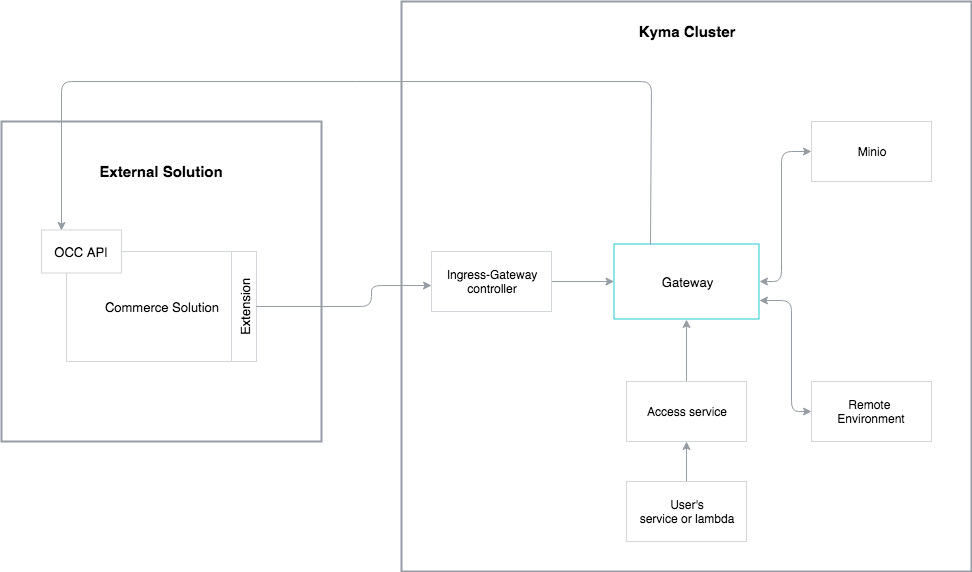
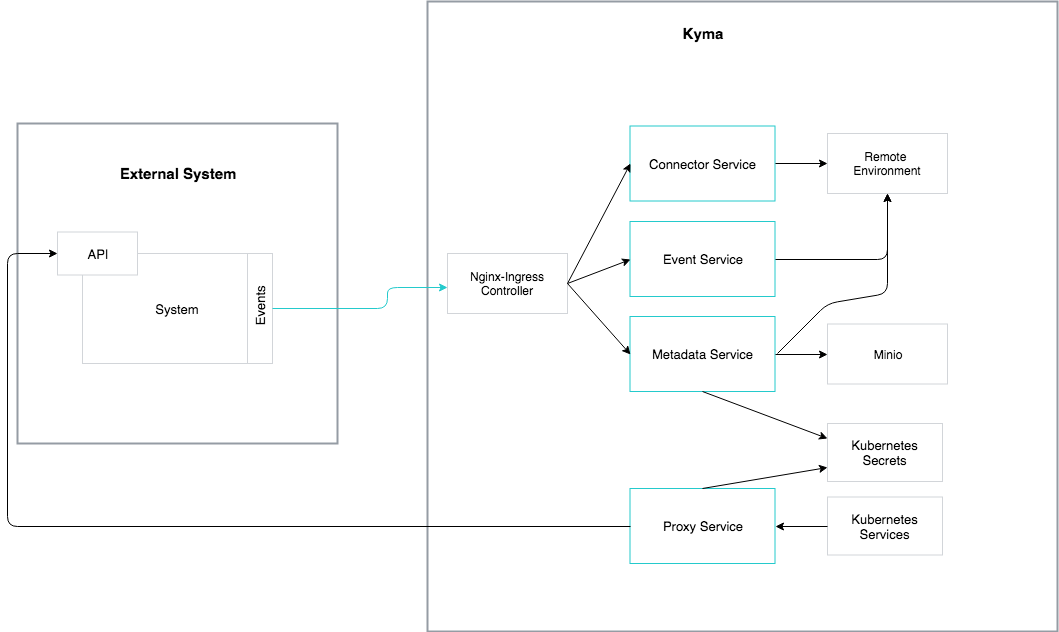
Documentation of the Application Connector Remote Environment improvements

diff --git a/docs/application-connector/docs/005-architecture-application-connector.md b/docs/application-connector/docs/005-architecture-application-connector.md
@@ -1,15 +1,76 @@
 ---
-title: Architecture
+title: Application Connector components
+type: Architecture
 ---
 
 The Application Connector consists of the following components:
 
-* **Ingress-Gateway controller** validating certificates and exposing multiple Application Connectors to the external world.
-* **Gateway** proxying calls to the registered solution.
-* **Remote Environment CRD instance** storing a solution's metadata.
-* **Remote Environtment Controller** provisioning and de-provisioning necessary deployments for the created Remote Environments.
-* **Minio bucket** storing API specifications, Event Catalogs, and documentations.
+* **Nginx Ingress Controller**
+* **Connector Service** 
+* **Metadata Service**
+* **Event Service**
+* **Proxy Service**
+* **Remote Environments**
+* **Minio bucket**
+* **Kubernetes Secrets**
+* **Kubernetes Services**
 
-To connect a new external solution, you must install and set up a new Remote Environment. Every external solution connected to Kyma is a separate Remote Environment with a dedicated Gateway Service and a dedicated Event Service. See the **Set up a Remote Environment on local Kyma installation** getting started guide to learn how to connect an external solution to Kyma.
 
 ![Architecture Diagram](assets/001-application-connector.png)
+
+
+### Nginx Ingress Controller
+
+The Nginx Ingress Controller controller exposes the Application Connector to the outside world. 
+It handles the routing to the other components and secures communication using the client certificates.
+
+The detailed description can be found here: [Nginx Ingress Controller](./006-architecture-ingress-gateway.md)
+
+
+### Connector Service
+
+The Connector Service is handling the exchange of the client certificates for a given Remote Environment and also returns the Metadata service and Event service endpoints.
+The Connector Service is signing each client certificate with use of server side certificate which is stored in Kubernetes secrets.
+
+The detailed description can be found here: [Connector Service](TBD)
+
+
+### Metadata Service
+
+The Metadata Service stores all registered APIs and Event Catalog which are exposed by the connected system.
+The APIs and Event catalogs metadata are stored in Remote Environment Custom Resource and the documentation is stored in Minio bucket.
+
+The Kubernetes services are created for each registered API and a new Service classes in Service Catalog is registered.
+Therefore, the services and Lambda function within Kyma can access the external API using the Service Catalog binding and the Proxy service.
+ 
+The API can be registered together with an OAuth credentials which are stored in Kubernetes secrets.
+
+The detailed description can be found here: [Metadata Service](TBD)
+
+
+### Proxy service
+
+The Proxy service is sending events to the Kyma Eventbus. The main purpose of the service to enrich the events with additional metadata indicating the source of the event.
+That allows routing the events to Lambda functions and Services based on Remote Environment from which they are coming.
+
+The detailed description can be found here: [Proxy Service](TBD)
+
+
+### Remote Environments
+
+Remote Environment represents the external system which is connected to Kyma.
+
+
+### Minio bucket
+
+Minio bucket is the storag for documentation of the registered APIs and Event catalogs.
+
+### Kubernetes Secret
+
+Kubernetes Secret is a Kubernetes Object which stores sensitive data, like OAuth credentials
+
+### Kubernetes Services
+
+Kubernetes services are used for managing an access to the external API over the Proxy service from the Lambda functions and services deployed in Kyma.
+
+
